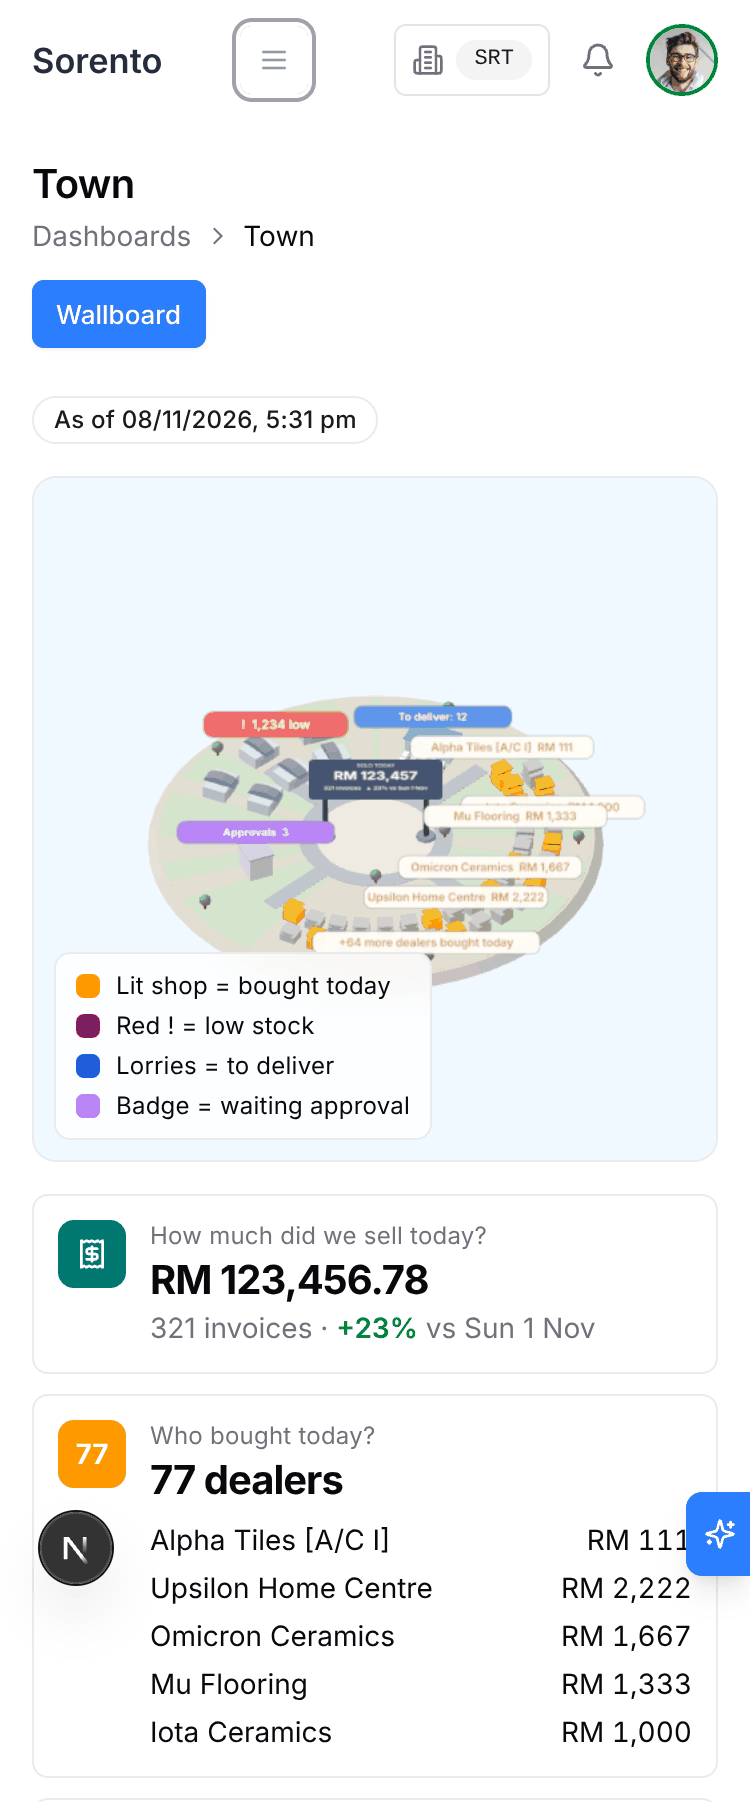
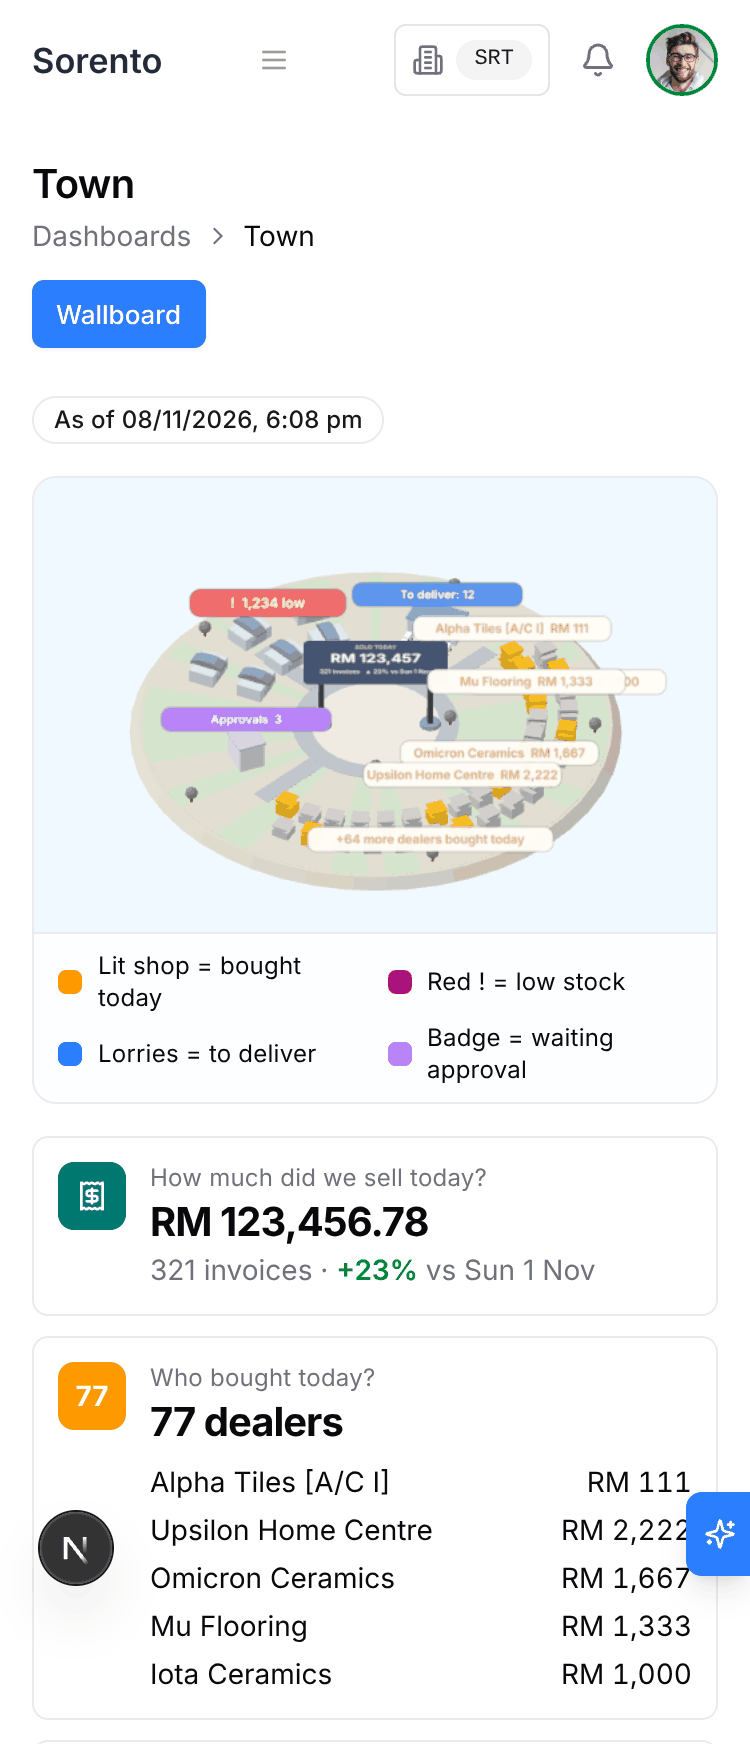
SORENTO-TOWN: final masked browser evidence [skip ci]
Claude-Session: https://claude.ai/code/session_01GHUZsSPAJiT3pnEUsA3Y2W

diff --git a/documentation/plans/dashboard/evidence/README.md b/documentation/plans/dashboard/evidence/README.md
@@ -53,3 +53,19 @@ Defects:
 3. Opening the "products low" Sheet at 375 logs two React warnings: Missing `Description` or
    `aria-describedby={undefined}` for DialogContent.
 4. The Sheet close icon button is 16x16 px at 375.
+
+## Final pass (head 984cfe3009, same fictional snapshot: 8 lit shops, 60 stalls)
+
+The two screenshots above were replaced (same names, fictional data only).
+
+- Legend below the canvas, not on the island, at 1280 and 375: PASS (legend top is at or below the canvas bottom).
+- Panels: no console warnings or errors opening all five panels at 1280 and at 375: PASS.
+- Sheet close hit area on a coarse pointer (375, touch emulation): 44x44 px, PASS (the icon itself is 16 px;
+  at 1280 with a fine pointer the hit area is 16x16, as intended).
+- Draw calls 18 per frame (limit 100); 0 rendered frames and 0 draws in 4 s idle, at both sizes: PASS.
+- Island plus labels fill about 90 percent of the limiting dimension: FAIL. Measured on the canvas pixels
+  (non-background bounding box): 1280 canvas 582x505 css, 79 percent of the width and 79 percent of the height,
+  margins L 81 / R 43 / T 12 / B 94 css px (an empty band at the bottom, content a little left-heavy);
+  375 canvas 341x227, 79 percent of the width and 85 percent of the height, margins L 48 / R 25 / T 12 / B 22 css px.
+- No two of the five tags overlap: FAIL. "Iota Ceramics RM 1,000" is still hidden behind "Mu Flooring RM 1,333"
+  at 1280 and at 375 (only the tail "00" shows at the right).
